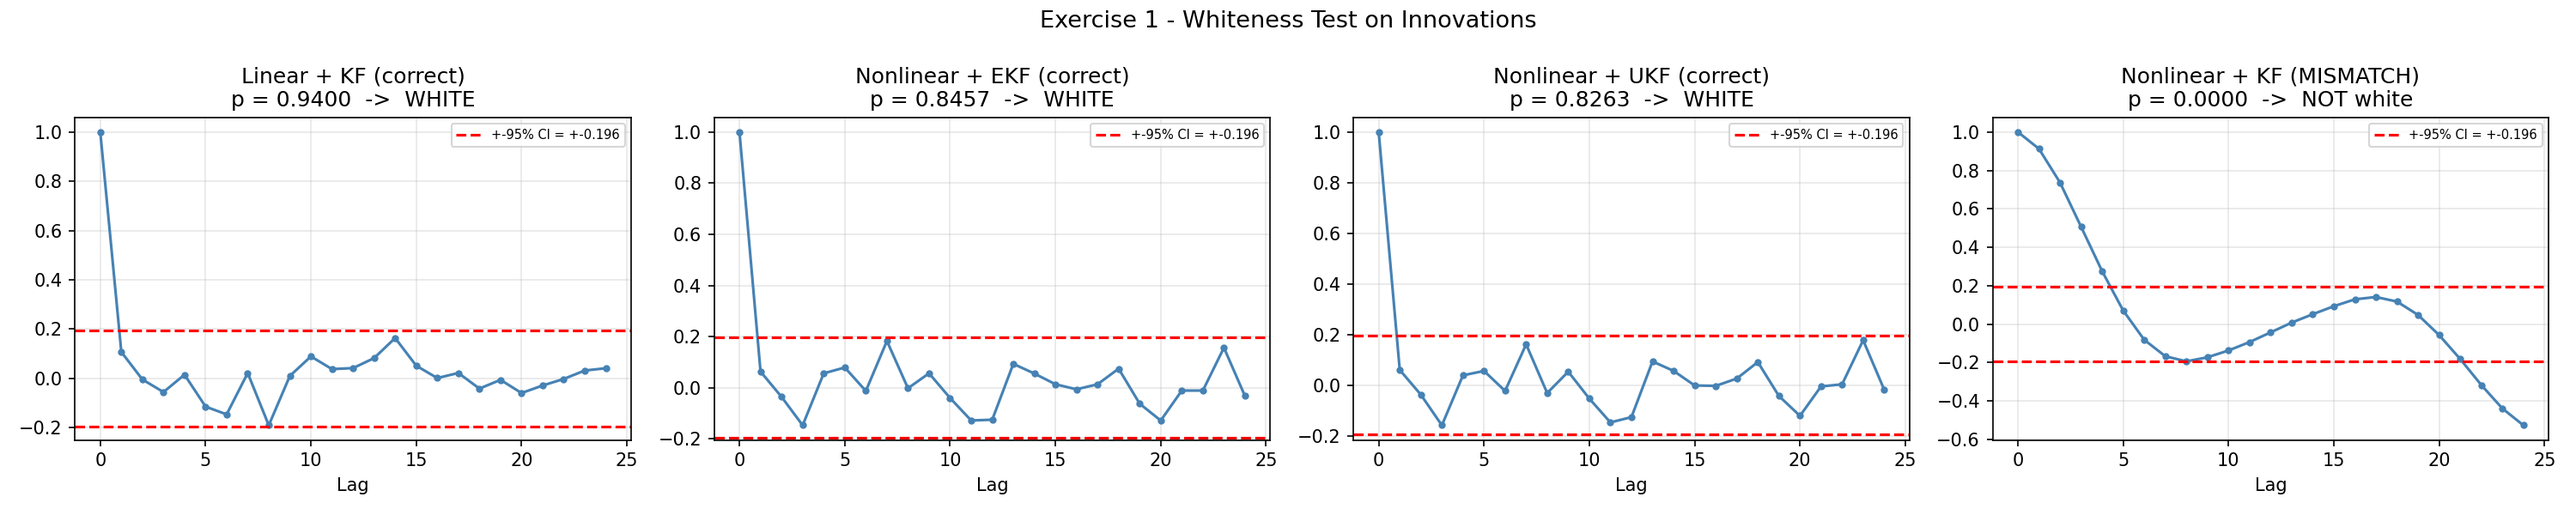
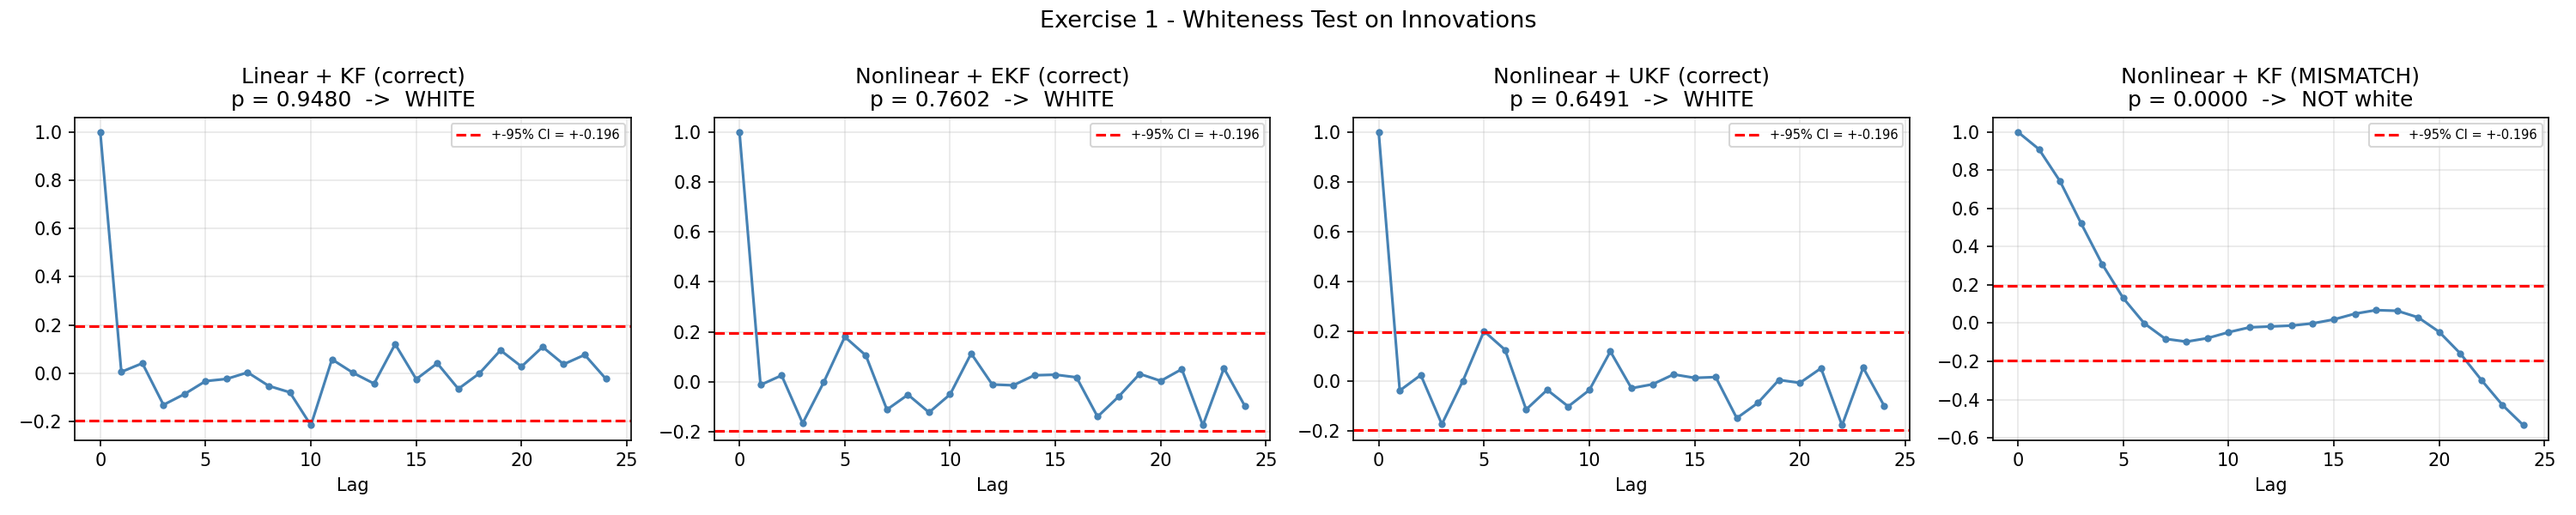
I did the same simulation with a different seed

diff --git a/sensors_and_systems/Lecture_9/lecture9_all_exercises.py b/sensors_and_systems/Lecture_9/lecture9_all_exercises.py
@@ -463,7 +463,7 @@ def run_exercise_3(seed=42):
     ]
 
     p   = make_linear_params(n=100)
-    fig, axs = plt.subplots(2, 4, figsize=(18, 8))
+    fig, axs = plt.subplots(3, 4, figsize=(18, 10))
     fig.suptitle('Exercise 3 - Uniform vs Normal Noise (KF)', fontsize=13)
 
     text_lines = ['Exercise 3 - Uniform vs Normal Noise', '=' * 65,
@@ -489,6 +489,13 @@ def run_exercise_3(seed=42):
 
         # Normality: normplot (visual, no test statistic)
         plot_normplot_panel(axs[1, col], innovations, label)
+
+        # Histogram of residuals
+        axs[2, col].hist(innovations, bins=15, density=True, alpha=0.7, color='steelblue', edgecolor='black')
+        axs[2, col].set_xlabel('Residuals', fontsize=8)
+        axs[2, col].set_ylabel('Density', fontsize=8)
+        axs[2, col].set_title('Residual Distribution', fontsize=9)
+        axs[2, col].grid(True, alpha=0.3)
 
         text_lines.append(f'{label:<28} {p_white:>10.4f}')
         print(f'  {label:<28}  p_white={p_white:.4f}')
@@ -521,7 +528,7 @@ def run_exercise_4(seed=42):
                   f'{"N":>8} {"RMSE_innov":>12} {"RMSE_xtp":>12} {"p_white":>10} {"CI_width":>10}']
 
     for row, n in enumerate(N_values):
-        max_lag = min(24, max(3, n // 4))
+        max_lag = min(24, max(3, n // 10 ))
 
         p                    = make_linear_params(n=n)
         x, y, u              = simulate_linear_system(p, seed=seed)
@@ -787,7 +794,7 @@ def run_exercise_5(seed=42):
 # =============================================================================
 
 if __name__ == '__main__':
-    SEED = 42
+    SEED = 42069
     run_exercise_1(seed=SEED)
     run_exercise_2(seed=SEED)
     run_exercise_3(seed=SEED)
